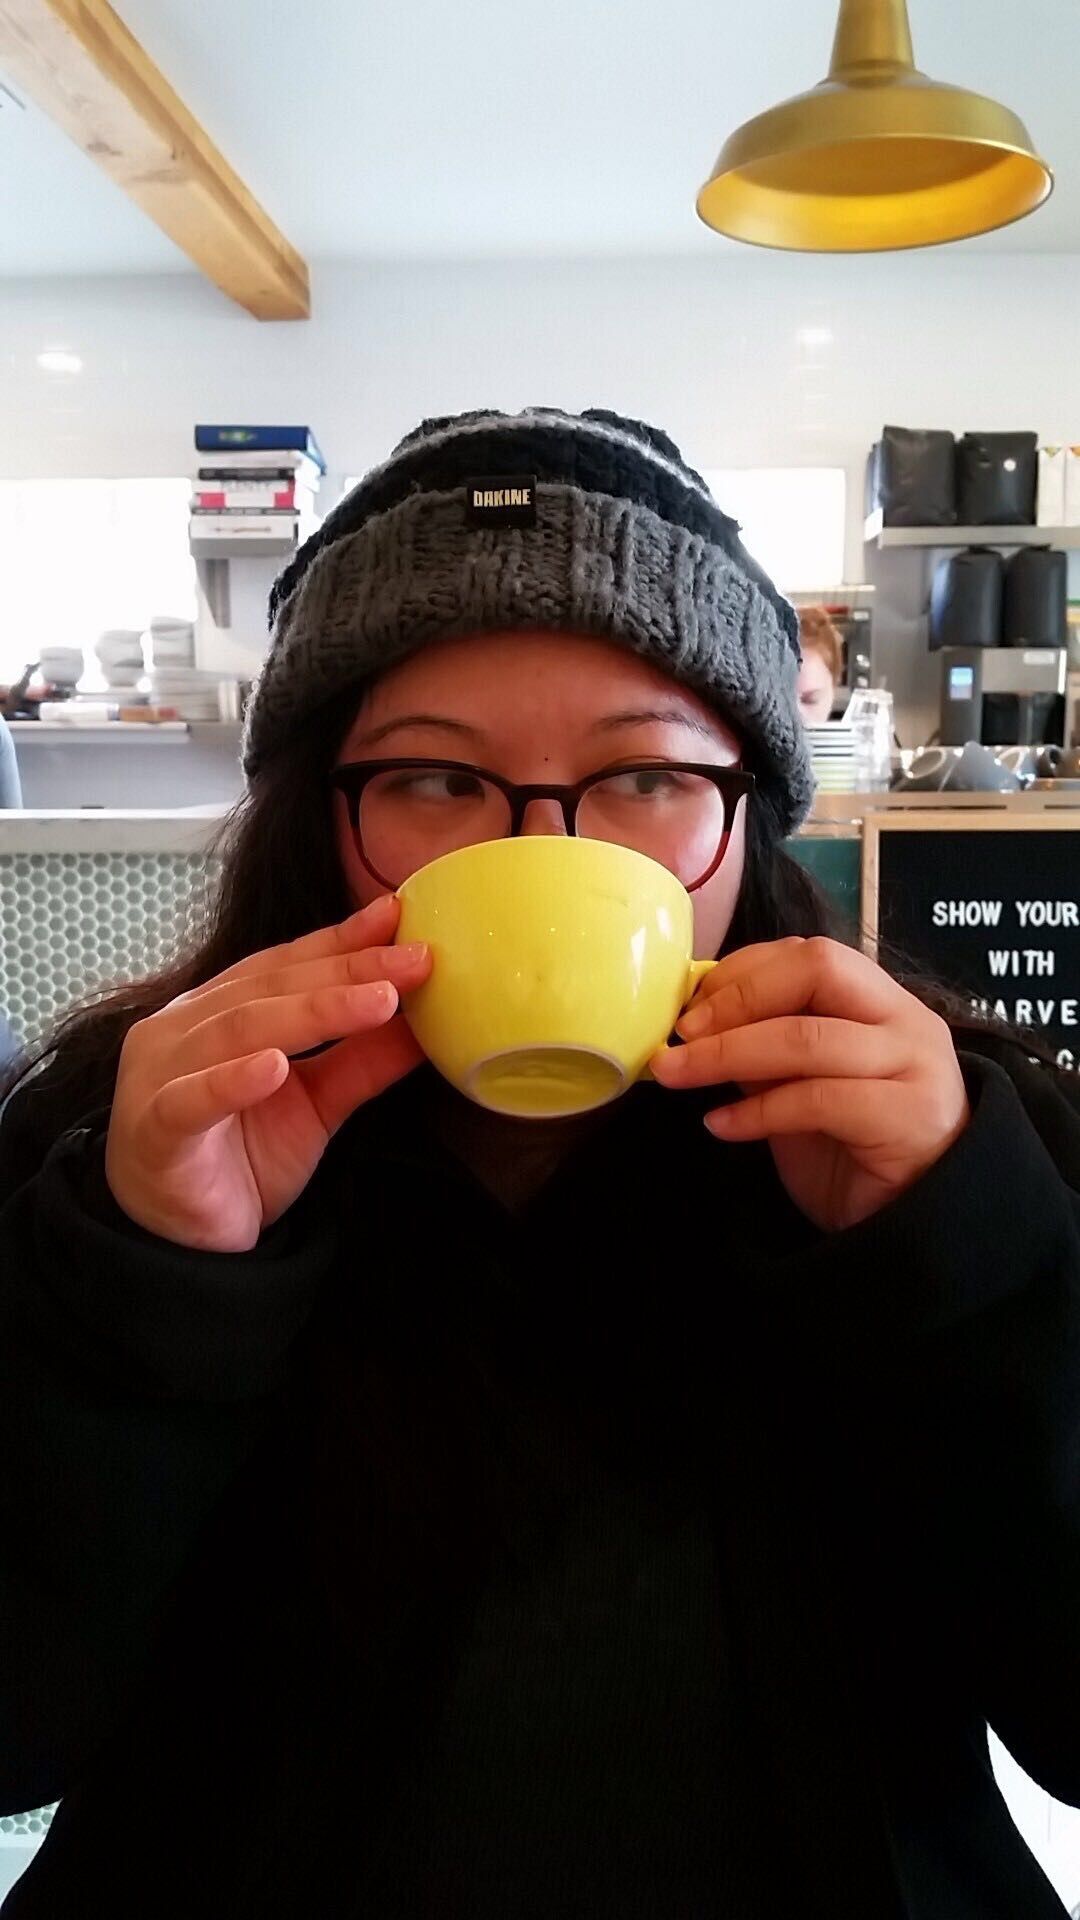
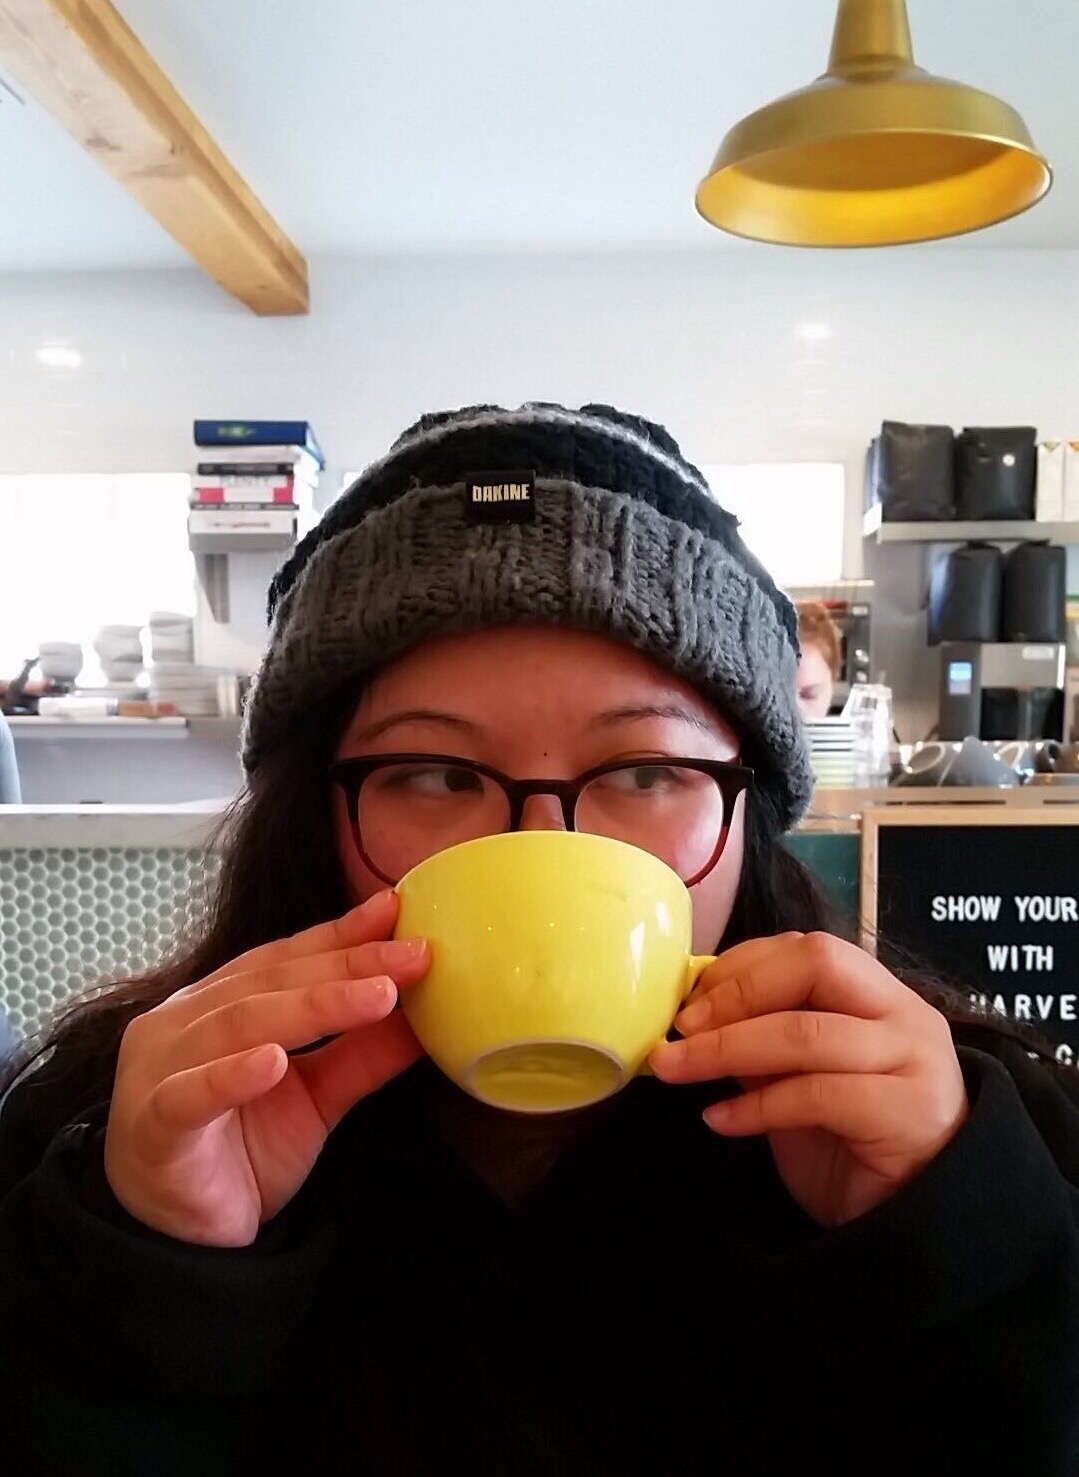
image resizing and navigation bar created

diff --git a/index.html b/index.html
@@ -9,32 +9,42 @@
 
 </head>
 <body>
-
+    
     <header>
-        <h1>Richelle Billones</h1>
-        <nav>   
-            <ul class="top-nav">
-                <li><a href="index.html">About</a></li>
-                <li><a href="portfolio.html">Portfolio</a></li>
-                <li><a href="contact.html">Contact Me</a></li>
-            </ul>
-        </nav>
+
+        <div>
+        <ul>
+            <li><a href="contact.html">Contact Me</a></li>
+            <li><a href="portfolio.html">Portfolio</a></li>
+            <li><a href="index.html">About</a></li>
+        </ul>
+        </div>
+
     </header>
 
-    <h1>About Me</h1>
-    <img id="bio-image" src="assets/images/me.jpg" alt="Me drinking coffee in Breckenridge, Colorado."/>
-    <p>Born in Honolulu and raised in the Dallas area, I got my feet wet with HTML and CSS in middle school (shout out 
-    to Xanga and Myspace). That and a web design class I took in high school, are about the extent of my knowledge of 
-    web development. Currently a student in the August cohort of the UT Coding Bootcamp learning all I can and 
-    drinking way to much coffee. 
-     </p>
+    <div class="container">
+            
+        <h1>About Me</h1>
+    
+        <img id="bio-image" src="assets/images/me.jpg" alt="Me drinking coffee in Breckenridge, Colorado."/>
+    
+            <p>Born in Honolulu and raised in the Dallas area, I got my feet wet with HTML and CSS in middle school (shout out 
+            to Xanga and Myspace). That, and a web design class I took in high school, are about the extent of my knowledge of 
+             web development. Currently a student in the August cohort of the UT Coding Bootcamp learning all I can and 
+            drinking way to much coffee. 
+            </p>
 
-    <ul>What I like to do when I'm not coding:
-        <li>Go to concerts</li>
-        <li>Check on my blueberries in Stardew Valley</li>
-        <li>Hang out with my dog</li>
-    </ul>
+            <!-- <ul id="favthings">What I like to do when I'm not coding:
+                <li>Go to concerts</li>
+                <li>Check my crops in Stardew Valley</li>
+                <li>Hang out with my dog</li>
+            </ul> -->
 
+    </div>
+
+    <footer>
+        <p>Copyright</p>
+    </footer>
 
 </body>
 </html>

diff --git a/contact.html b/contact.html
@@ -6,34 +6,35 @@
     <meta http-equiv="X-UA-Compatible" content="ie=edge">
     <title>Contact</title>
     <link rel="stylesheet" type="text/css" href="assets/css/style.css"/>
-    
 </head>
 <body>
 
-    <header>
-        <h1>Richelle Billones</h1>
-        <nav>   
-             <ul class="top-nav">
-                <li><a href="index.html">About</a></li>
-                <li><a href="portfolio.html">Portfolio</a></li>
-                <li><a href="contact.html">Contact Me</a></li>
-            </ul>
-        </nav>
+    <header id="navbar">
+  
+        <ul>
+            <li><a href="contact.html">Contact Me</a></li>
+            <li><a href="portfolio.html">Portfolio</a></li>
+            <li><a href="index.html">About</a></li>
+        </ul>
+        
     </header>
 
-    <h1>Contact Me</h1>
+    <div class = "container">
 
-    <form>
-        Name: <br>
-        <input type="text" name="name">
-        <br>
-        Email: <br>
-        <input type="text" name="email">
-        <br>
-        Message: <br>
-        <input type="text" name="message">
-        <br>
-    </form>
-    
+        <h1>Contact Me</h1>
+
+        <form>
+            Name: <br>
+            <input type="text" name="name">
+            <br>
+            Email: <br>
+            <input type="text" name="email">
+            <br>
+            Message: <br>
+            <input type="text" name="message">
+            <br>
+        </form>
+    </div>
+
 </body>
 </html>

diff --git a/assets/css/style.css b/assets/css/style.css
@@ -1,10 +1,76 @@
-#bio-image {
-    height: 350px;
-    width: 200px;
-    float: left;
-    padding: 10px;
+body {
+    padding: 0;
+    margin: 0;
+    font-family: "Arial", "Helvetica Neue", Helvetica, sans-serif;
+    color: #777777;
+    background-color: #FFFFFF;
+    border-color: #DDDDDD;
+    background-image: url(../images/seigaiha.png)
+}    
+
+#name {
+    background-color: #4AAAA5;
+    color: white;
+    margin: 5px;
 }
 
-body {
-    
+ul {
+    list-style-type: none;
+    margin: 0;
+    padding: 0;
+    background-color: #FFFFFF;
+    overflow: hidden;
+}
+
+li {
+   float: right;
+}
+
+li a {
+    display: block;
+    color: #777777;
+    text-align: center;
+    padding: 14px 14px;
+    text-decoration: none;
+}
+
+h1 {
+    color: #4AAAA5;
+    font-family: "Georgia", Times, "TImes New Roman", serif;
+
+}
+
+a:link, a:visited {
+    color: #777777;
+    text-decoration: none;
+}
+
+.container {
+    width: 960px;
+    margin: 0 auto;
+    text-align: left;
+    background-color: #FFFFFF;
+    padding: 25px;
+    clear: both;
+}
+
+#bio-image {
+    float: left;
+    max-height: 20%;
+    max-width: 20%;
+}
+
+p {
+    padding: 25px;
+    margin: 25px;
+    text-align: left;
+}
+
+footer {
+    background-color: #666666;
+    border-top-style: solid;
+    border-color: 
+    clear: both;
+    color: #FFFFFF;
+    height: 50px;
 }

diff --git a/portfolio.html b/portfolio.html
@@ -9,17 +9,18 @@
 </head>
 <body>
     <header>
-        <h1>Richelle Billones</h1>
-        <nav>   
-            <ul class="top-nav">
-                <li><a href="index.html">About</a></li>
-                <li><a href="portfolio.html">Portfolio</a></li>
-                <li><a href="contact.html">Contact Me</a></li>
-            </ul>
-        </nav>
+     
+        <ul>
+            <li><a href="contact.html">Contact Me</a></li>
+            <li><a href="portfolio.html">Portfolio</a></li>
+            <li><a href="index.html">About</a></li>
+        </ul>
+      
     </header>
 
-    <h1>My Portfolio</h1>
+    <div class="container">
+        <h1>My Portfolio</h1>
+    </div>
 
 
 </body>
